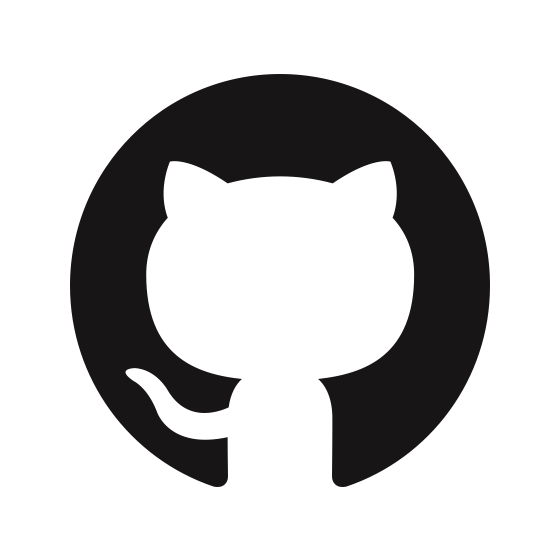
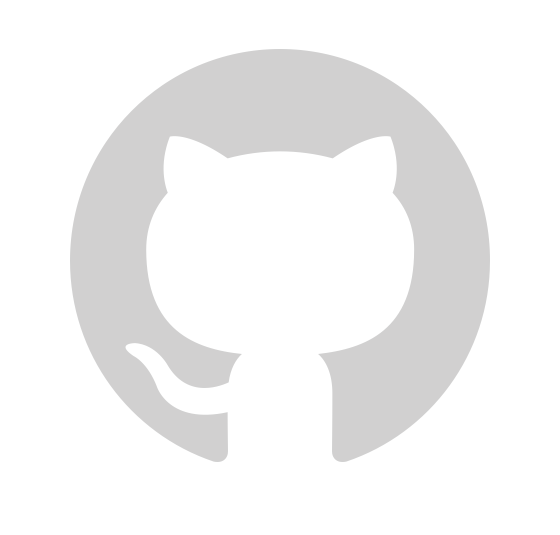
working on portfolio

Changed region(s): [[0.1214, 0.0897, 0.8804, 0.8673]]

diff --git a/Fullsite1/Portfolio2/index.html b/Fullsite1/Portfolio2/index.html
@@ -82,7 +82,7 @@
     </div>
     <div id="aboutSection">
       <div id="aboutSectionRow" class="aboutSectionBorder">
-        <p>I've been a PC Support Specialist for over twelve years. That's an 'Operating System and Hardware Technician'. I've worked with Microsoft Operating systems from DOS 6.2 to Windows 11 and all the major stops in between. While working with Best Buy's Geek Squad, Canada Computers' Service Dept. and as an independant consultant I have assembled a plethora of desktop computers. Repaired hundreds of laptops. And was even a Samsung Authorized mobile device repair technician. I've spent years learning all about how to assemble, install and service all sorts of hardware and software platforms. And I'd say I'm pretty good at it... Now, I would like to learn how to program.</p>
+        <p>I have been a PC Support Specialist for over twelve years. That's an 'Operating System and Hardware Technician'. I've worked with Microsoft Operating systems from DOS 6.2 to Windows 11 and all the major stops in between. While working with Best Buy's Geek Squad, Canada Computers' Service Dept. and as an independant consultant I have assembled a plethora of desktop computers. Repaired hundreds of laptops. And was even a Samsung Authorized mobile device repair technician. I've spent years learning all about how to assemble, install and service all sorts of hardware and software platforms. And I'd say I'm pretty good at it. After years of being a technician I have decided to enter the field of software development. I know how computers work, now I want to instruct computers how to work. </p>
       </div>
       <div id="aboutSectionRow" class="backgroundImage2">
         <div class="aboutTextBackgroundBox">
@@ -96,8 +96,10 @@
           <p class="quote">~ Spock</p>
         </div>        
       </div>
-      <div id="aboutSectionRow" class="aboutSectionBorder">
-          <a href="https://github.com/AlwaysOnCue47" target="_blank">GITHUB</a>
+      <div id="aboutSectionRow" class="aboutSectionBorder backgroundImage3">
+        <p>Check out my <a href="https://github.com/AlwaysOnCue47" target="_blank">GITHUB</a> account!
+        There you will find a few projects of mine in HTML/CSS/JavaScript and C# with .NET Framework.
+        You can also find the code for the program demos showcased below.</p>
       </div>
     </div>
   </div>
@@ -122,15 +124,20 @@
            <div class="demoCard">
             <div class="demoCardTextBox">
               <p>
-                This small program is a demonstration of Object Oreinted programming. A single Class Constructer is used to define the objects (the circles) and each object has it's own behaviour. One follows the mouse postion and the other changes colour when it detects contact (or collision) with the other object.
+                I've put together this small program to demonstrate some of the aspects of Object Oriented Programming. This program makes use of JavaScript's canvas element. A single Class Constructer or "blueprint" is used to define the objects or in this case the circles. Using variables for X and Y coordinates plus a radius length and fill color the constructor has all the properties needed to draw a circle of any size and color anywhere on the canvas.
               </p>
-              <div><img style="margin-top: 10px;" src="./images/Capture2.PNG" alt="class constructor"></div>
+              <div><img style="margin-top: 10px; margin-bottom: 10px;"  src="./images/Capture2.PNG" alt="class constructor"></div>
+              <p> In addition to the object's properties each object has it's own behaviour. One follows the mouse postion and the other changes colour when it detects contact (or collision) with the other object.</p>
+              <p>
+                How does the object know when a collision has taken place? Why using trigonometry of course. Imagine a right angle circle being drawn from the centre of one circle to the centre of the other circle.
+              </p>
+              
             </div>
             <div class="demoCardTextBox">
-              <p>
-                How does the object know when a collision has taken place? Using trigonometry is how. 
-              </p>
-              <div><img src="./images/Capture.PNG" style="margin-top: 10px;" alt="Illustration of right angles between objects"></div>
+              
+              <div><img src="./images/Capture.PNG" style="margin-top: 10px; margin-bottom: 10px;" alt="Illustration of right angles between objects"></div>
+              <p>Since the program has the value for each circle's X and Y coordinates the exact lengths of the triangles horizontal and vertical sides can be easily determined. With that information we can use a simple trigonometry formula to calculate the length of the unknown side. When that length is less than the sum of each circles radius then a collision has occured. </p>
+              <div><img style="margin-top: 10px; margin-bottom: 10px;" src="./images/Capture4.PNG" alt="Get distance equation"></div>
             </div>
             <canvas id="canvas1"></canvas>
            </div>

diff --git a/Fullsite1/Portfolio2/javascript/main.js b/Fullsite1/Portfolio2/javascript/main.js
@@ -65,7 +65,6 @@ class Circle{
     ctx1.arc(this.x, this.y, this.radius, Math.PI*2, false);
     ctx1.fill();
     ctx1.closePath();
-
   }
 };
 
@@ -167,7 +166,6 @@ class CircleMaker2{
     ctx2.arc(this.x, this.y, this.radius, Math.PI*2, false);
     ctx2.fill();
     ctx2.closePath();
-
   }
 
   update(circles) {
@@ -176,12 +174,9 @@ class CircleMaker2{
       if (getDistance(this.x, this.y, circles[i].x, circles[i].y) - this.radius * 2 < 0) {
         resolveCollision(this, circles[i]);
     }};
-
-    
     if (this.x + this.radius >= canvas2.width || this.x - this.radius <= 0){
       this.velocity.x = -this.velocity.x
     };
-
     if (this.y + this.radius >= canvas2.height || this.y - this.radius <= 0) {
       this.velocity.y = -this.velocity.y
     };
@@ -200,7 +195,6 @@ for (let i = 0; i < 6; i++) {
   let color = colors[Math.floor(Math.random()*4)];
   circles.push(new CircleMaker2(x, y, 15, color));
   circles[i].draw();
-  
 }
 
 function animate2() {
@@ -210,7 +204,6 @@ function animate2() {
     circles[i].update(circles);
   }
 }
-
 
 animate1();
 animate2();

diff --git a/Fullsite1/Portfolio2/styles.css b/Fullsite1/Portfolio2/styles.css
@@ -266,6 +266,13 @@ nav .homeLink{
   border-color: #bbb;
 }
 
+.backgroundImage3 {
+  background-image: url(./images/GitHub-Mark-ea2971cee799.png);
+  background-size: contain;
+  background-repeat: no-repeat;
+  background-position: right;
+}
+
 .aboutTextBackgroundBox {
   background-color: rgba(28, 182, 74, 0.75);
   box-shadow: -6px 6px 3px rgba(0, 0, 0, .5);
@@ -318,7 +325,7 @@ nav .homeLink{
 .demoCardTextBox {
   max-width: 30%;
   display: flex;
-  align-items: center;
+  align-items: left;
   flex-direction: column;
 }
 
